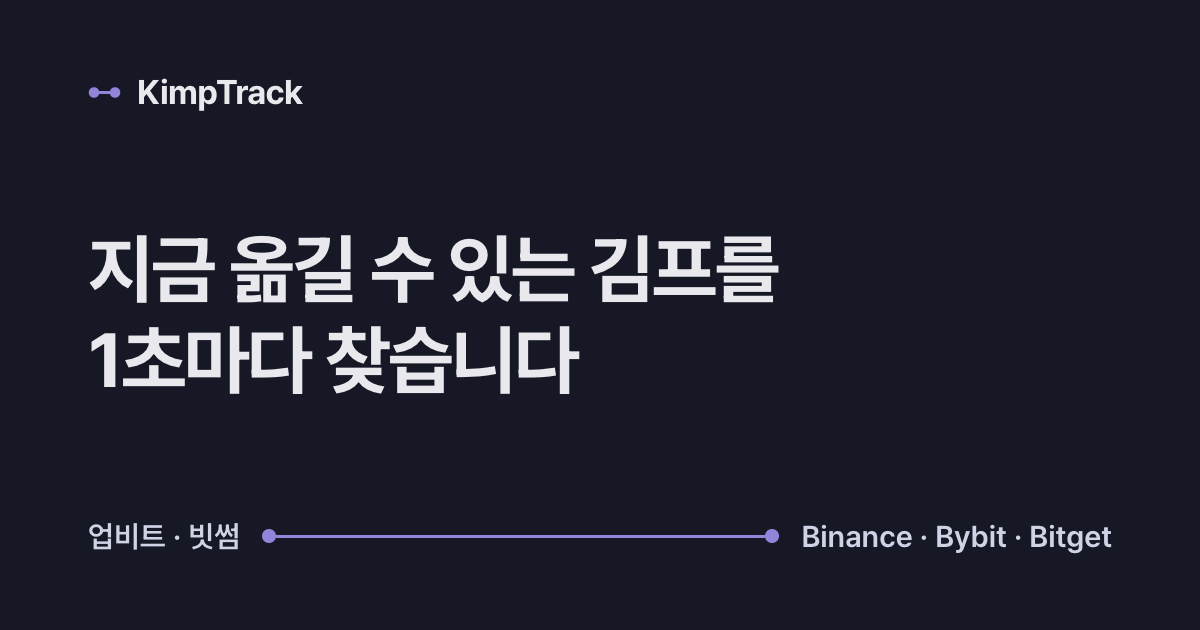
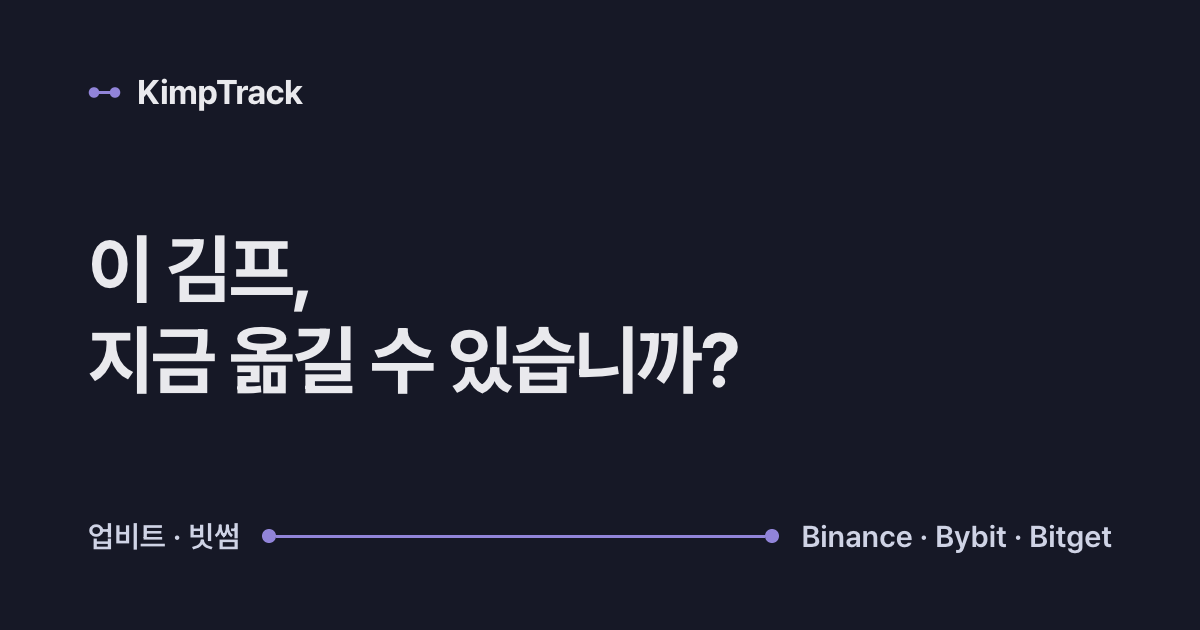
feat(web): put the trader's question in the landing hero and preview (spec 022)
The h1 reads "이 김프," / "지금 옮길 수 있습니까?" and the lead, title,
description and og tags carry the new copy as written in the spec. The
long second line is 8.55em in Pretendard 700, so the size is
min(48px, 100cqi / 8.81) with a 36px fallback that still fits at 360px.
og.png is re-rendered with the new h1 and the same wordmark and exchange
route, no numbers.

Changed region(s): [[0.0617, 0.5127, 0.6167, 0.6333], [0.0617, 0.3619, 0.6475, 0.4825]]

diff --git a/web/public/landing.html b/web/public/landing.html
@@ -3,16 +3,16 @@
 <head>
   <meta charset="utf-8" />
   <meta name="viewport" content="width=device-width, initial-scale=1" />
-  <title>KimpTrack — 옮길 수 있는 김프를 1초마다</title>
-  <meta name="description" content="업비트·빗썸과 바이낸스·바이빗·비트겟의 호가를 매초 맞대어 김프와 역프를 계산합니다. $1,000를 실제로 사고팔 때의 값과, 지금 입출금이 열려 있는지까지 함께 봅니다." />
+  <title>KimpTrack — 이 김프, 지금 옮길 수 있습니까?</title>
+  <meta name="description" content="숫자가 커 보여도 입출금이 막혔거나 사고팔 때 단가가 밀리면 옮길 이유가 없습니다. KimpTrack은 이 질문에 답할 근거를 김프 옆에 붙여 둡니다." />
   <link rel="canonical" href="https://kimptrack.com/" />
   <!-- 그림·favicon 은 상대 경로 — 배포(/)와 vite dev(/app/landing.html) 양쪽에서 같은 파일을 찾는다 -->
   <link rel="icon" type="image/svg+xml" href="favicon.svg" />
   <meta name="theme-color" content="#161826" />
   <meta property="og:type" content="website" />
   <meta property="og:site_name" content="KimpTrack" />
-  <meta property="og:title" content="KimpTrack — 옮길 수 있는 김프를 1초마다" />
-  <meta property="og:description" content="업비트·빗썸과 바이낸스·바이빗·비트겟의 호가를 매초 맞대어 김프와 역프를 계산합니다. $1,000를 실제로 사고팔 때의 값과, 지금 입출금이 열려 있는지까지 함께 봅니다." />
+  <meta property="og:title" content="KimpTrack — 이 김프, 지금 옮길 수 있습니까?" />
+  <meta property="og:description" content="숫자가 커 보여도 입출금이 막혔거나 사고팔 때 단가가 밀리면 옮길 이유가 없습니다. KimpTrack은 이 질문에 답할 근거를 김프 옆에 붙여 둡니다." />
   <meta property="og:url" content="https://kimptrack.com/" />
   <meta property="og:image" content="https://kimptrack.com/landing/og.png" />
   <meta property="og:image:width" content="1200" />
@@ -87,9 +87,9 @@
     /* 히어로 — 글 5 : 카드 7 */
     .hero { display: grid; grid-template-columns: minmax(0, 5fr) minmax(0, 7fr); gap: 64px; align-items: start; padding-block: 64px 112px; }
     .hero-text { padding-top: 20px; container-type: inline-size; }
-    /* h1 은 어느 폭에서나 "지금 옮길 수 있는 김프를" / "1초마다 찾습니다" 두 줄 — 첫 줄(Pretendard 700 에서 9.08em)이
-       글 칸(100cqi)에 들어가는 크기, 최대 48px. 9.35 는 3% 여유. cqi 를 모르는 브라우저는 34px(360px 폭에서도 들어간다) */
-    h1 { font-size: 34px; font-size: min(48px, 100cqi / 9.35); line-height: 1.22; letter-spacing: -0.035em; }
+    /* h1 은 어느 폭에서나 "이 김프," / "지금 옮길 수 있습니까?" 두 줄 — 긴 둘째 줄(Pretendard 700 에서 8.55em)이
+       글 칸(100cqi)에 들어가는 크기, 최대 48px. 8.81 은 3% 여유. cqi 를 모르는 브라우저는 36px(360px 폭에서도 들어간다) */
+    h1 { font-size: 36px; font-size: min(48px, 100cqi / 8.81); line-height: 1.22; letter-spacing: -0.035em; }
     .h1-line { display: block; white-space: nowrap; }
     .lead { margin-top: 24px; }
     .hero-text .btn-lg { margin-top: 36px; }
@@ -224,8 +224,8 @@
   <main>
     <section class="wrap hero" aria-labelledby="hero-title">
       <div class="hero-text">
-        <h1 id="hero-title"><span class="h1-line">지금 옮길 수 있는 김프를</span> <span class="h1-line">1초마다 찾습니다</span></h1>
-        <p class="prose lead"><span class="nw">업비트·빗썸과</span> <span class="nw">바이낸스·바이빗·비트겟의</span> 호가를 매초 맞대어 김프와 역프를 계산합니다. $1,000를 실제로 사고팔 때의 값과, 지금 입출금이 열려 있는지까지 함께 봅니다.</p>
+        <h1 id="hero-title"><span class="h1-line">이 김프,</span> <span class="h1-line">지금 옮길 수 있습니까?</span></h1>
+        <p class="prose lead">숫자가 커 보여도 입출금이 막혔거나 사고팔 때 단가가 밀리면 옮길 이유가 없습니다. KimpTrack은 이 질문에 답할 근거를 김프 옆에 붙여 둡니다.</p>
         <a class="btn btn-lg" href="/app/">서비스로 넘어가기</a>
       </div>
       <div>
